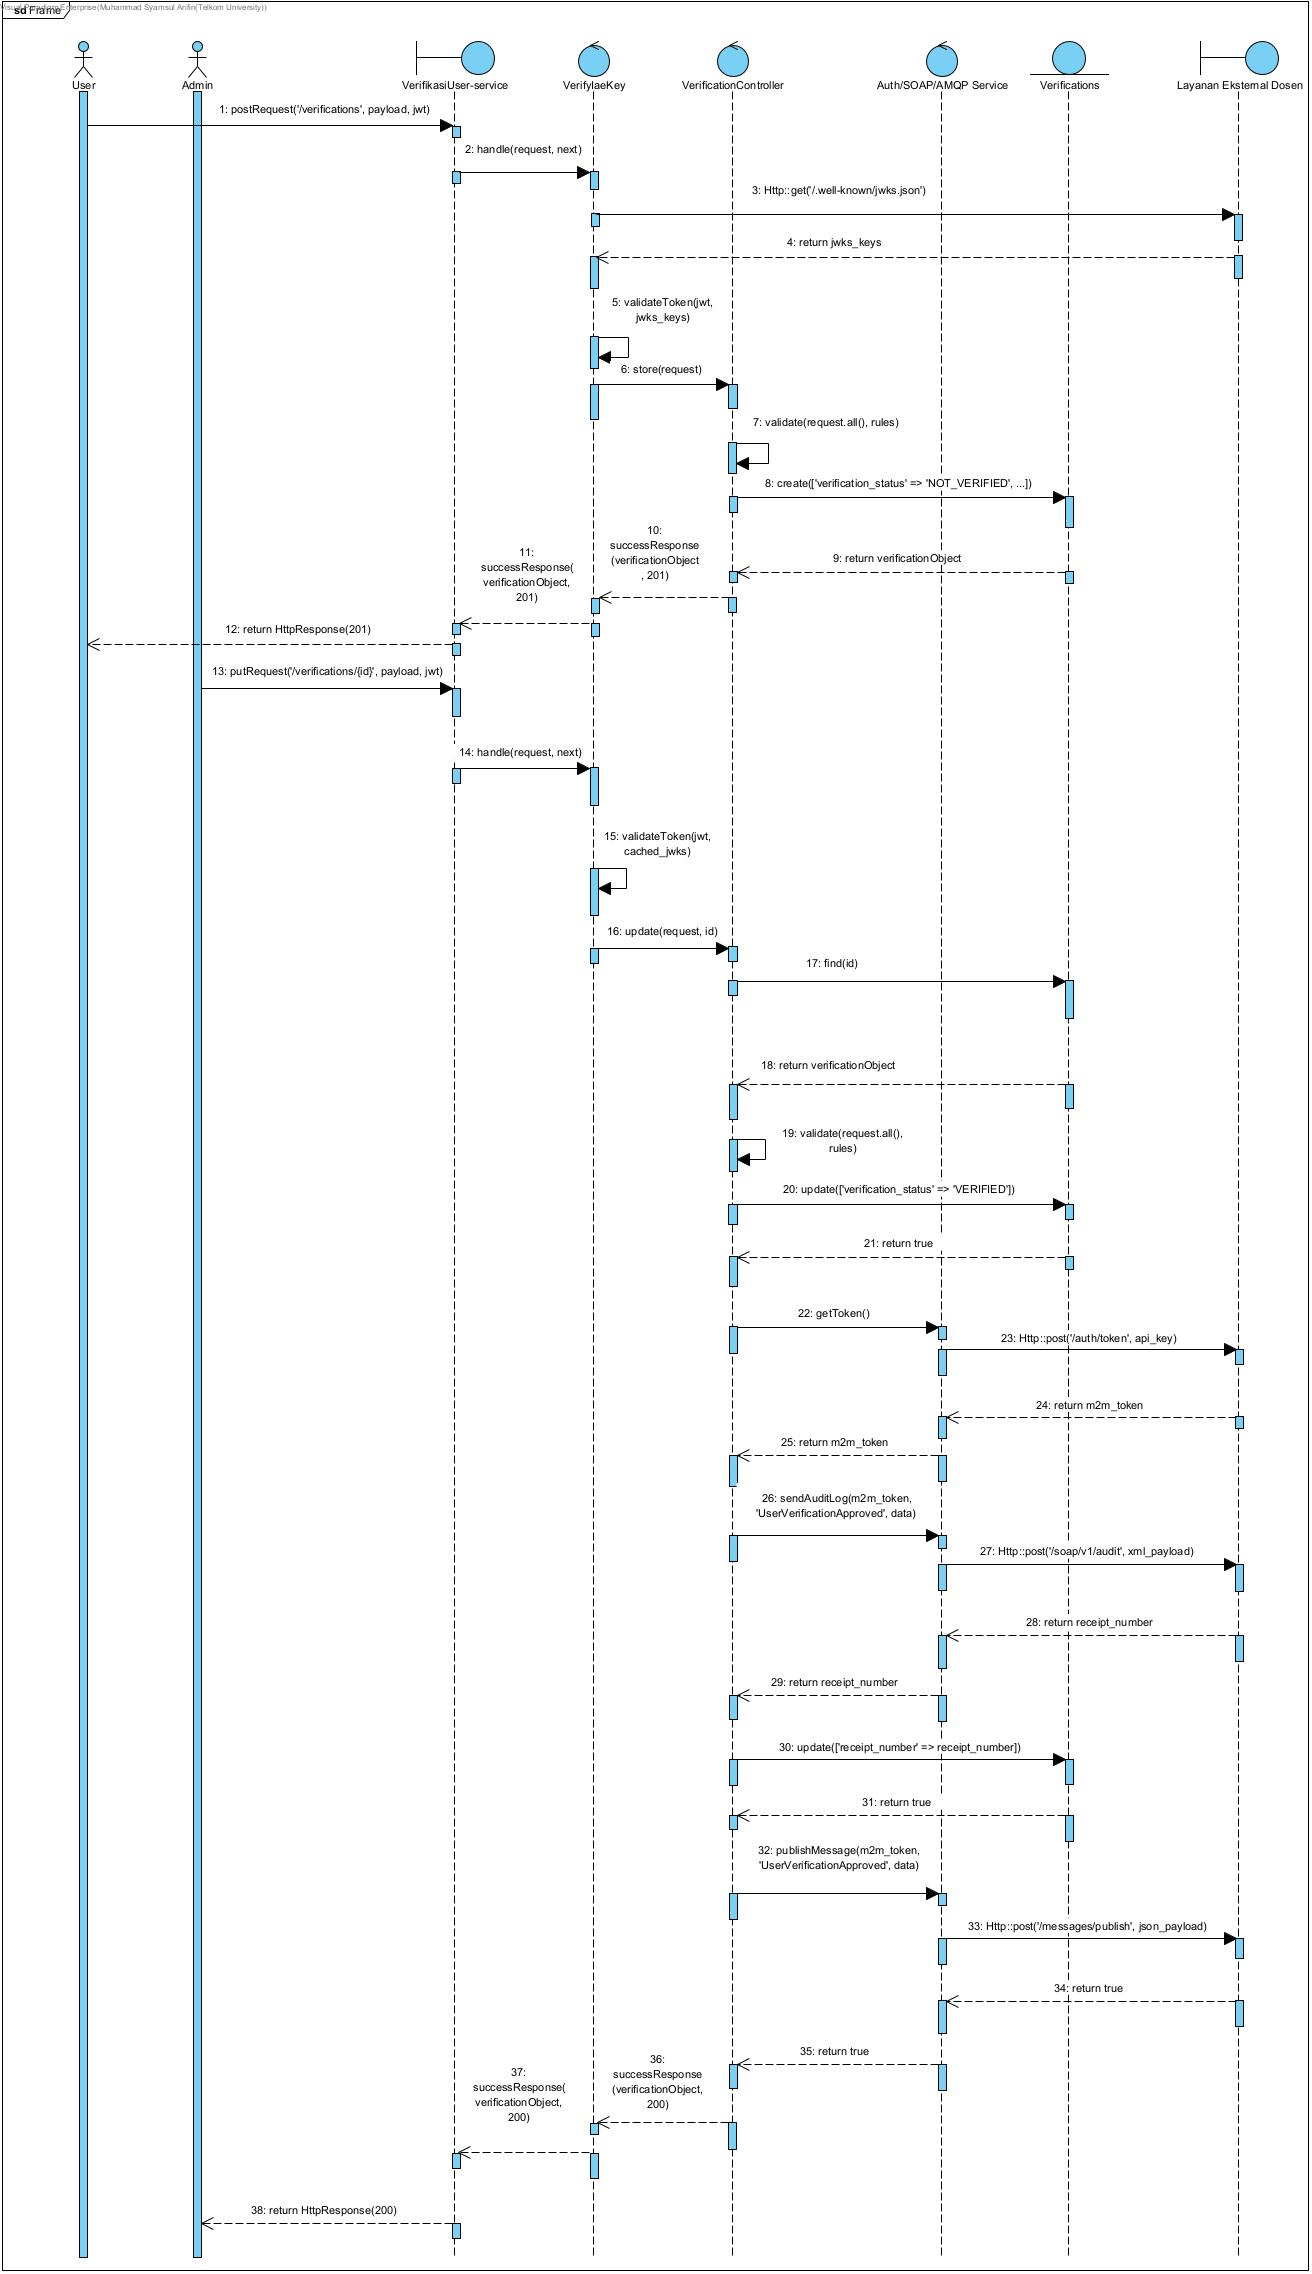
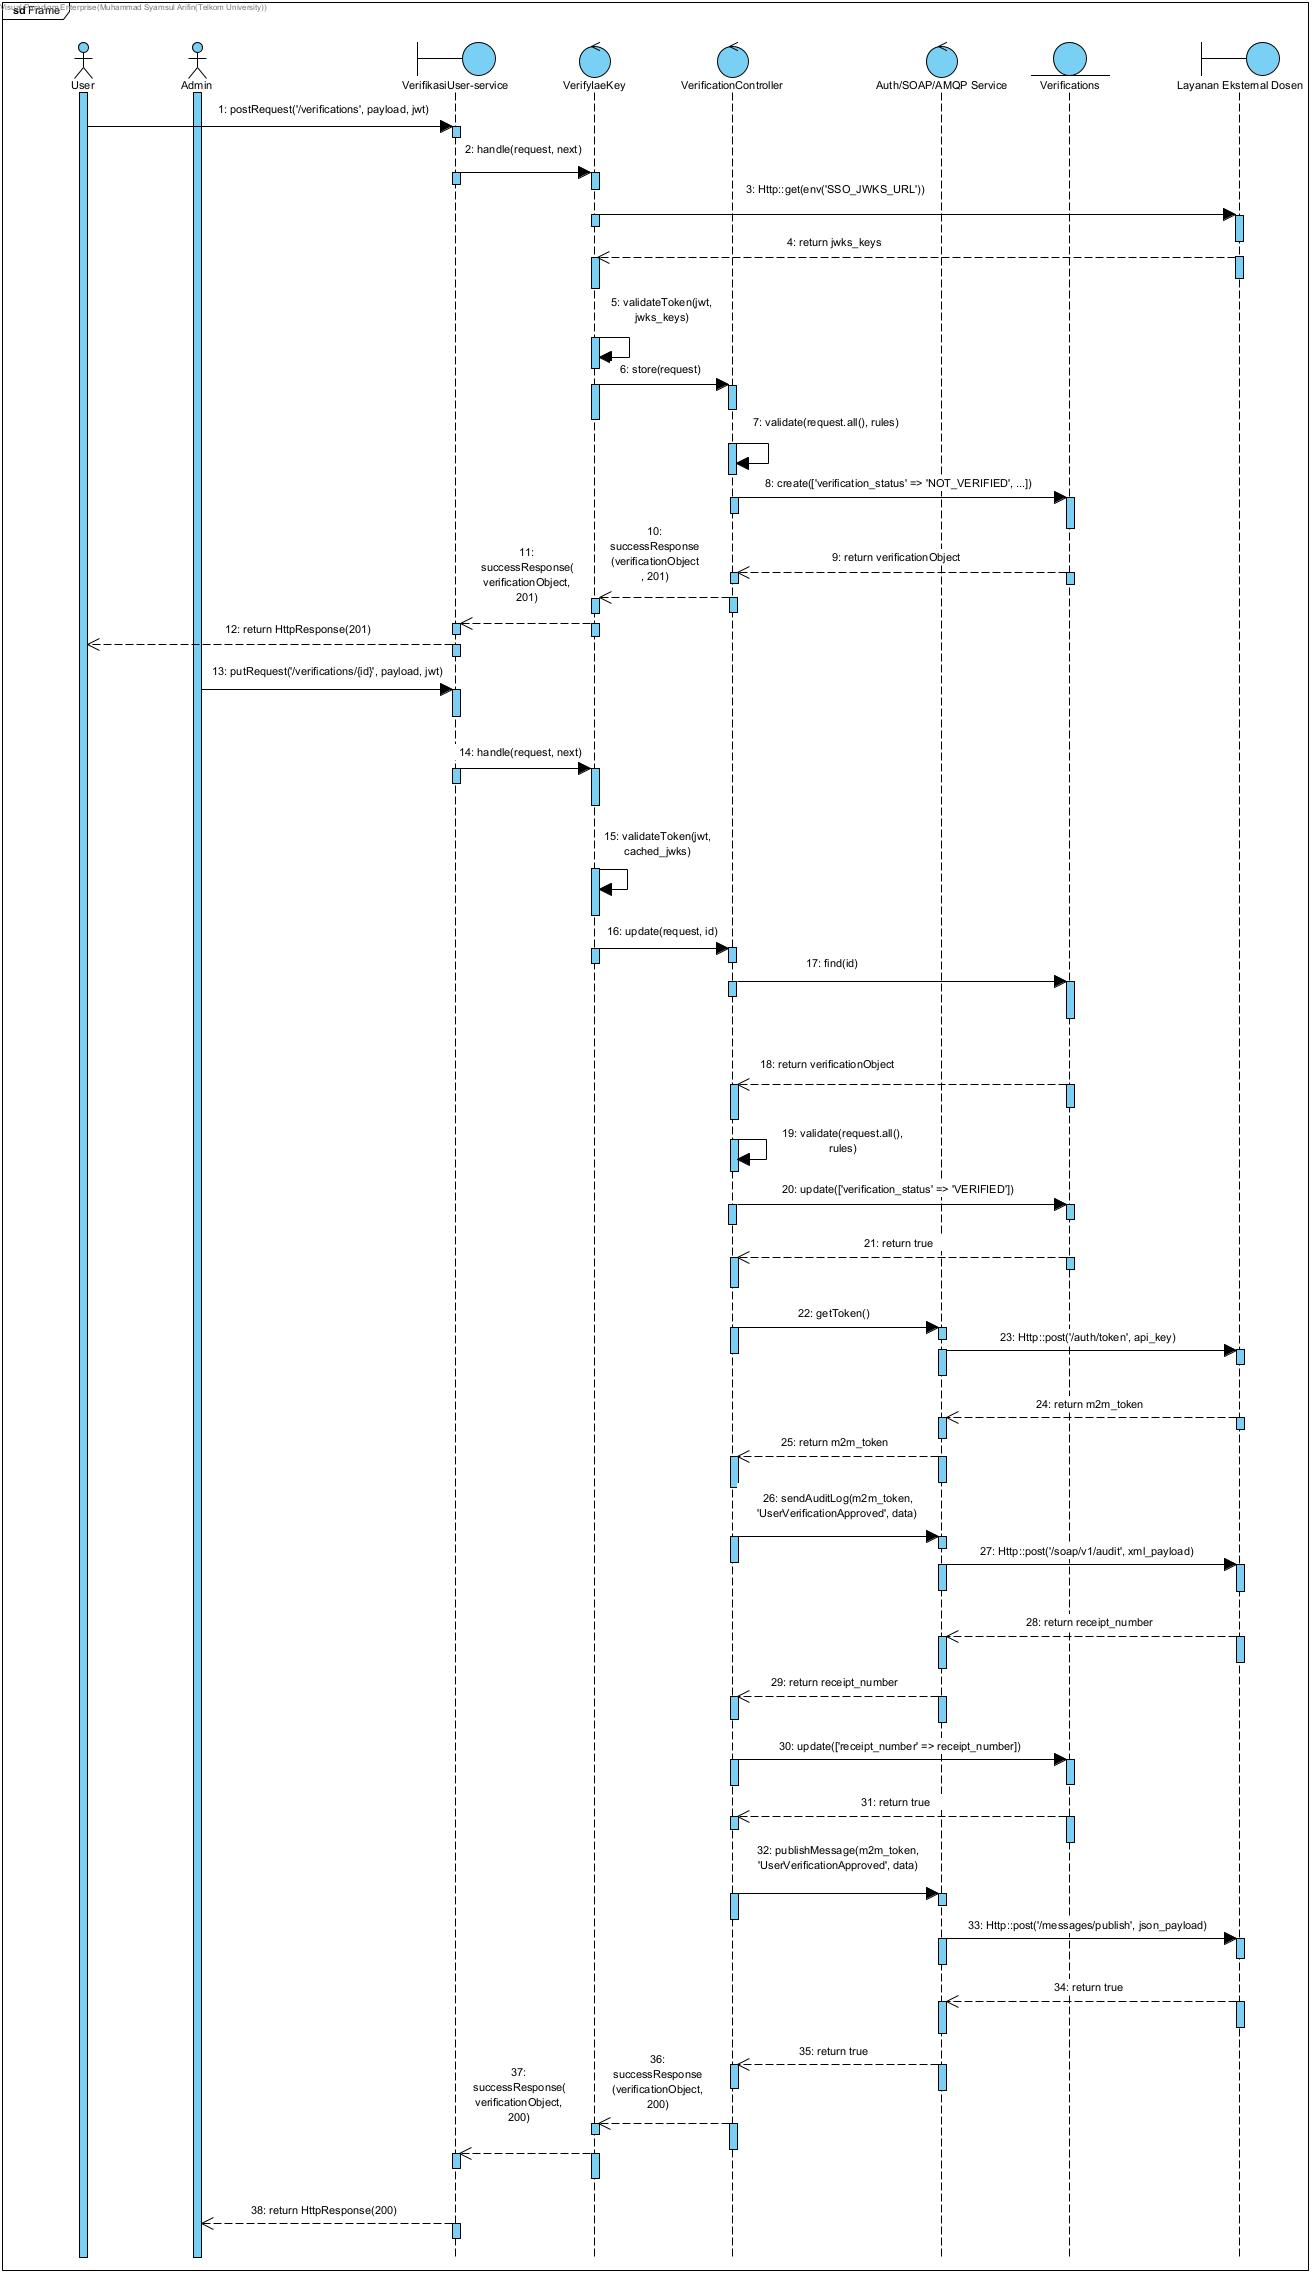
Masukin Public Key server pusat

diff --git a/app/Http/Middleware/VerifyIaeKey.php b/app/Http/Middleware/VerifyIaeKey.php
@@ -34,7 +34,8 @@ class VerifyIaeKey
         try {
             // 2. Fetch JWKS and Cache it
             $jwks = Cache::remember('sso_jwks', 3600, function () {
-                $response = Http::timeout(5)->get('https://iae-sso.virtualfri.id/.well-known/jwks.json');
+                $jwksUrl = env('SSO_JWKS_URL', 'https://iae-sso.virtualfri.id/api/v1/auth/jwks');
+                $response = Http::timeout(5)->get($jwksUrl);
                 if ($response->successful()) {
                     return $response->json();
                 }
